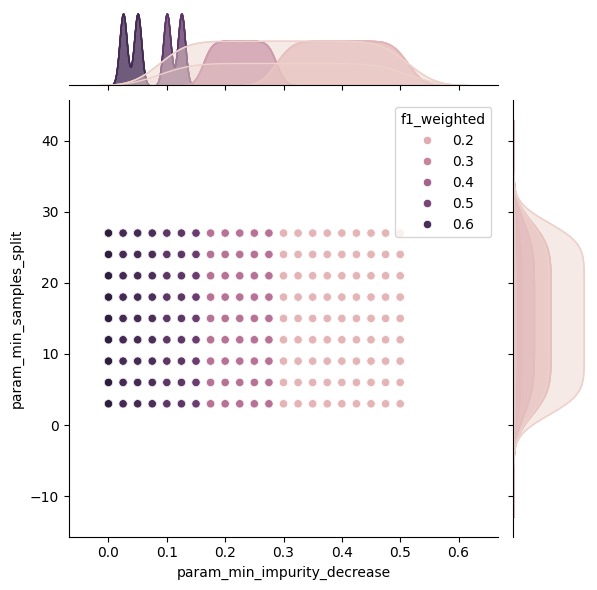
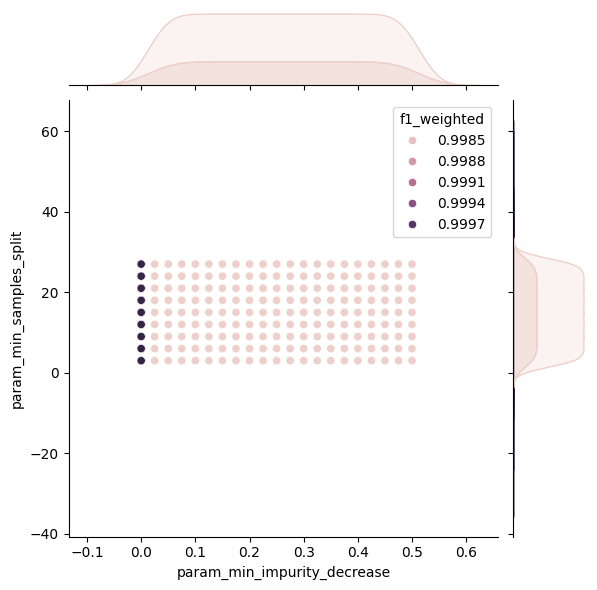
reexecute training + train model separatedly

diff --git a/scripts/packet_pincer_train_model_selected.py b/scripts/packet_pincer_train_model_selected.py
@@ -1,0 +1,78 @@
+#!/usr/bin/env python3
+
+from datetime import datetime, time
+import json
+from pathlib import Path
+from typing import Tuple
+from matplotlib import pyplot as plt
+from matplotlib.colors import LogNorm
+import numpy as np
+import pandas as pd
+from sklearn import metrics
+from sklearn.ensemble import AdaBoostClassifier, BaggingClassifier, ExtraTreesClassifier, RandomForestClassifier, VotingClassifier
+from sklearn.naive_bayes import GaussianNB
+from sklearn.neighbors import KNeighborsClassifier
+from sklearn.neural_network import MLPClassifier
+from sklearn.preprocessing import MinMaxScaler
+from sklearn.model_selection import GridSearchCV, StratifiedKFold
+from sklearn.svm import SVC
+from sklearn.tree import DecisionTreeClassifier
+from sklearn.utils.multiclass import unique_labels
+import joblib
+import seaborn as sns
+
+TRAIN_CSV = Path("/workspaces/tfg/tmp/train.csv")
+TEST_CSV = Path("/workspaces/tfg/tmp/test.csv")
+VALIDATION_CSV = Path("/workspaces/tfg/tmp/validation.csv")
+SCALER = Path("/workspaces/tfg/tmp/scaler.joblib")
+KFOLD = Path("/workspaces/tfg/tmp/kfold.joblib")
+REPORT_MEDIA_FOLDER = Path("/workspaces/tfg/report/media/")
+PACKET_PINCER_LABEL = "label"
+TMP_FOLDER = Path("/workspaces/tfg/tmp")
+
+def train_run(df_train: pd.DataFrame, df_test: pd.DataFrame, name: str, model):
+    print(f"{name} - Full train run")
+
+    x_train = df_train.loc[: , df_train.columns != PACKET_PINCER_LABEL]
+    y_train = df_train.loc[: , df_train.columns == PACKET_PINCER_LABEL]
+
+    x_test = df_test.loc[: , df_train.columns != PACKET_PINCER_LABEL]
+    y_test = df_test.loc[: , df_train.columns == PACKET_PINCER_LABEL]
+
+    print(f"{name} - Training full model. Start time at {datetime.now()}")
+    start_time = datetime.now()
+    model.fit(x_train, y_train.values.ravel())
+    elapsed_time = datetime.now() - start_time
+    print(f"{name} - Training complete. Took {elapsed_time}")
+
+    print(f"{name} - Predicting categories. Start time at {datetime.now()}")
+    start_time = datetime.now()
+    y_test_predictions = model.predict(x_test)
+    elapsed_time = datetime.now() - start_time
+    print(f"{name} - Predicting complete. Took {elapsed_time}")
+
+    print(f"{name} - Generating classification report")
+    clasification_report = metrics.classification_report(y_test, y_test_predictions, digits=6)
+    clasification_report_dict = metrics.classification_report(y_test, y_test_predictions, output_dict=True)
+    with open(TMP_FOLDER / "{name}_selected_classification_report.json", "w") as write_file:
+        json.dump(clasification_report_dict, write_file)
+
+    print(f"{name} - Plotting results")
+    plt.clf()
+    plt.figure(figsize=(8, 8))
+    classes = unique_labels(y_test, y_test_predictions)
+    cm = metrics.confusion_matrix(y_test, y_test_predictions)
+    sns.heatmap(cm, annot=True, cmap='Blues', fmt='_d', cbar=False, xticklabels=classes, yticklabels=classes, norm=LogNorm())
+    plt.xlabel('Predicted Labels')
+    plt.ylabel('True Labels')
+    plt.title('Confusion Matrix')
+    plt.savefig(REPORT_MEDIA_FOLDER / f"packet_pincer_train_model_{name}_selected.png", bbox_inches="tight")
+    print(clasification_report)
+
+def main() -> None:
+    df_train_validation = pd.concat([pd.read_csv(TRAIN_CSV), pd.read_csv(VALIDATION_CSV)])
+    df_test = pd.read_csv(TEST_CSV)
+    train_run(df_train_validation, df_test, "random_forest", RandomForestClassifier(n_estimators=20))
+
+if __name__=="__main__":
+    main()

diff --git a/scripts/packet_pincer_train_models_pass.py b/scripts/packet_pincer_train_models_pass.py
@@ -30,17 +30,11 @@ REPORT_MEDIA_FOLDER = Path("/workspaces/tfg/report/media/")
 PACKET_PINCER_LABEL = "label"
 TMP_FOLDER = Path("/workspaces/tfg/tmp")
 
-SAMPLING_PERCENTAGE=0.15/100
-TEST_PERCENTAGE=20/100
-K_FOLD_SPLITS=5
-
 def read_files() -> Tuple[pd.DataFrame, pd.DataFrame, MinMaxScaler, StratifiedKFold]:
     df_train = pd.read_csv(TRAIN_CSV)
     df_validation = pd.read_csv(VALIDATION_CSV)
-    df_test = pd.read_csv(TEST_CSV)
-    scaler = joblib.load(SCALER)
 
-    return (df_train, df_validation, df_test, scaler)
+    return (df_train, df_validation)
 
 def grid_search_run(df_train: pd.DataFrame, name: str, model, params):
     print(f"{name} - Grid search validation run")
@@ -108,7 +102,7 @@ def knn(df_train: pd.DataFrame, df_validation: pd.DataFrame):
     name="KNN"
 
     grid_search = grid_search_run(df_train, name, KNeighborsClassifier(), {
-        'n_neighbors':list(range(1,30,2)), 
+        'n_neighbors':list(range(1,30,6)), 
         'weights':('distance','uniform')
     })
 
@@ -335,7 +329,7 @@ def extra_trees(df_train: pd.DataFrame, df_validation: pd.DataFrame):
         }
     )
 
-    train_run(df_train, df_validation, name, RandomForestClassifier(**grid_search.best_params_))
+    train_run(df_train, df_validation, name, ExtraTreesClassifier(**grid_search.best_params_))
 
 def adaboost(df_train: pd.DataFrame, df_validation: pd.DataFrame): 
     name = "adaboost"
@@ -351,16 +345,18 @@ def adaboost(df_train: pd.DataFrame, df_validation: pd.DataFrame):
 
 
 def main() -> None:
-    df_train, df_validation, df_validation, scaler = read_files()
+    df_train, df_validation = read_files()
+    
+    bagging(df_train, df_validation)
+    random_forest(df_train, df_validation)
+    extra_trees(df_train, df_validation)
+    adaboost(df_train, df_validation)
+
     naive_bayes(df_train, df_validation)
     knn_params = knn(df_train, df_validation)
     dt_params = decision_trees(df_train, df_validation)
     nn_params = nn(df_train, df_validation)
     voting_classifier(df_train, df_validation, knn_params, dt_params, nn_params)
-    bagging(df_train, df_validation)
-    random_forest(df_train, df_validation)
-    extra_trees(df_train, df_validation)
-    adaboost(df_train, df_validation)
 
 if __name__=="__main__":
     main()
